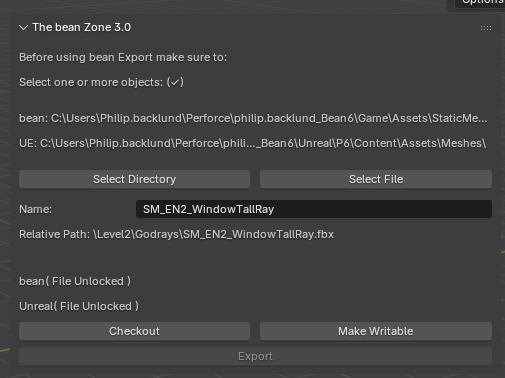
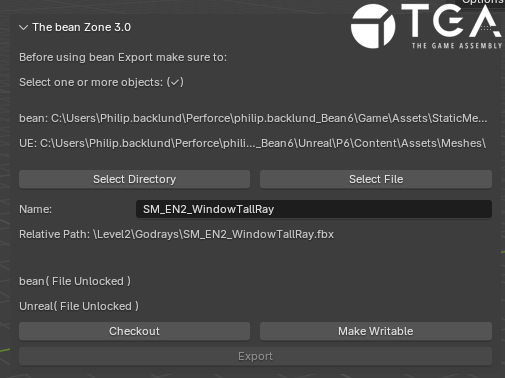
Bean update

Changed region(s): [[0.6832, 0.0, 1.0, 0.1455]]

diff --git a/3_TgaProjects.md b/3_TgaProjects.md
@@ -41,17 +41,22 @@ nav-menu: true
 <div class="row 50%" style="margin-top:0;">
   <div class="6u 12u$(small)">
     <h4>Blender Exporter</h4>
-    Because we use unreal as a level editor we need our models to be saved in both the bean ( our engine ) project and the Unreal project. 
-	<br><br>
-	To make the export process easier for the artists I made an exporter that would export them to both the unreal and bean asset folder. 
+    Because we use Unreal as a level editor, our assets need to exist in both the Unreal project and  the Bean ( our engine ) project.
+<br><br> 
+To simplify this, I built an exporter that sends assets to both the Unreal and Bean asset folders at the same time. 
+<br><br> 
+Since Perforce sets tracked files as read-only until they’re checked out, we previously had to manually locate both the Bean and Unreal files in Perforce and check them out before exporting, which was tedious. 
+<br><br> 
+To avoid this I added perforce integration to the plugin using p4 commands. I added the ability to checkout files or make them writable through the blender plugin. It also will display the file status like if the file is unlocked, writable or checked out by you or someone else. 
+<br><br> 
+This allowed us to work in blender without touching the Perforce application until it was time to push our changes.
 
-	<br><br> 
-	Sometimes people forget to change settings or add prefixes which ends with time being spent on investigating issues caused by a bad export.  To lessen the risk of bad exports I added a function that would check if a prefix was missing before exporting and if it was the prefix would be added automatically. The exporter also applied all the settings we needed automatically before exporting.
 
 
   </div>
   <div class="6u$ 12u$(small)">
     <span class="image fit">
+    <br><br> 
 		<b>The export window</b><br>
     	<img src="{% link assets/images/Bean/beanExport.png %}" alt="Image 1" style="width: 80%"/>
 
@@ -64,8 +69,7 @@ nav-menu: true
 
 <div class="row 50%" style="margin-top:0;">
   <div class="7u 12u$(small)">
-    <h4> Depth Panorama </h4>
-    Two Planar
+    <h4> Two Planar </h4>
 	To make the level designers work easier I made a 2 planar uv function. Why not triplanar? Because we wanted to use 45° walls and tri planar causes stretching on anything not perfectly aligned with the world axis. 
 	<br><br>
 	The ground was done by using the two horizontal world coordinates ( X & Z ).
